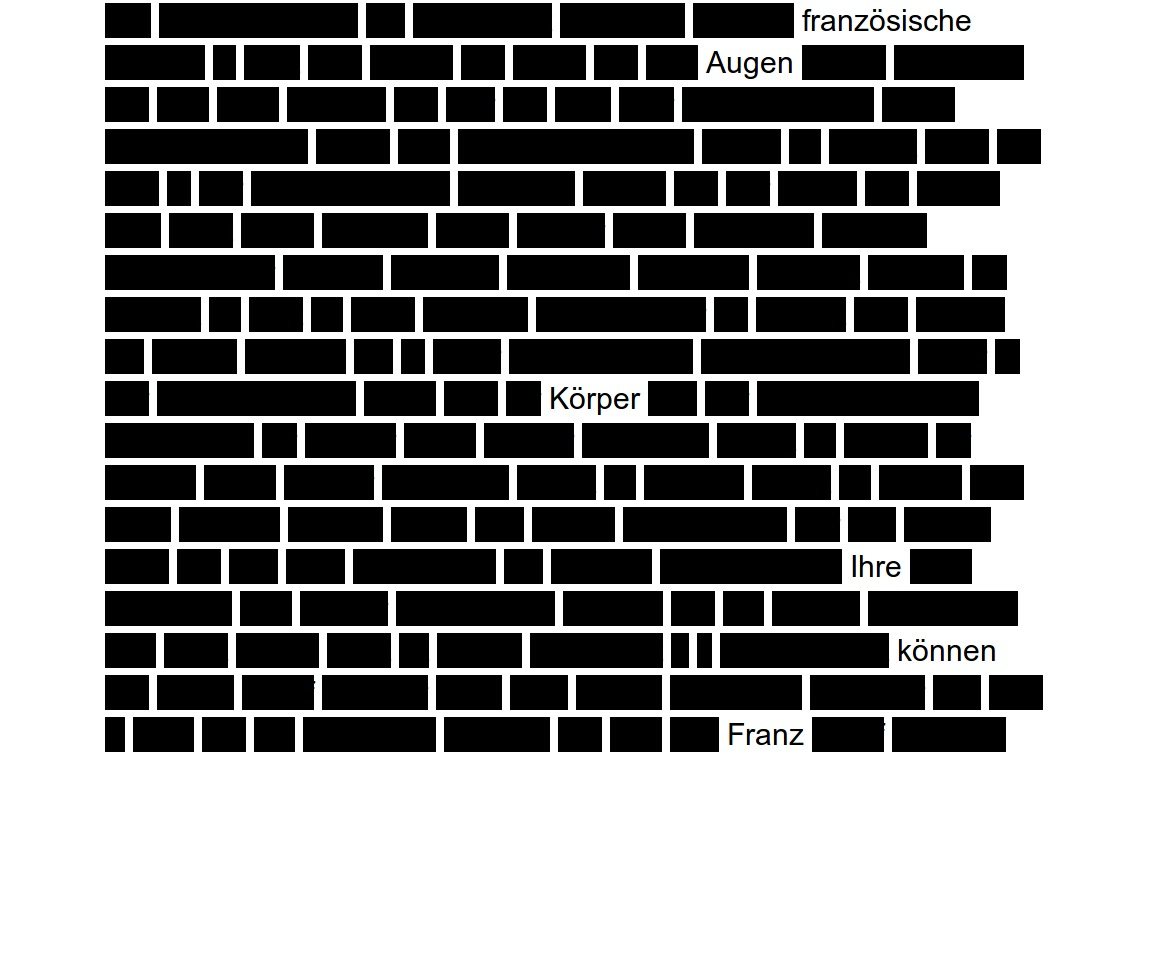
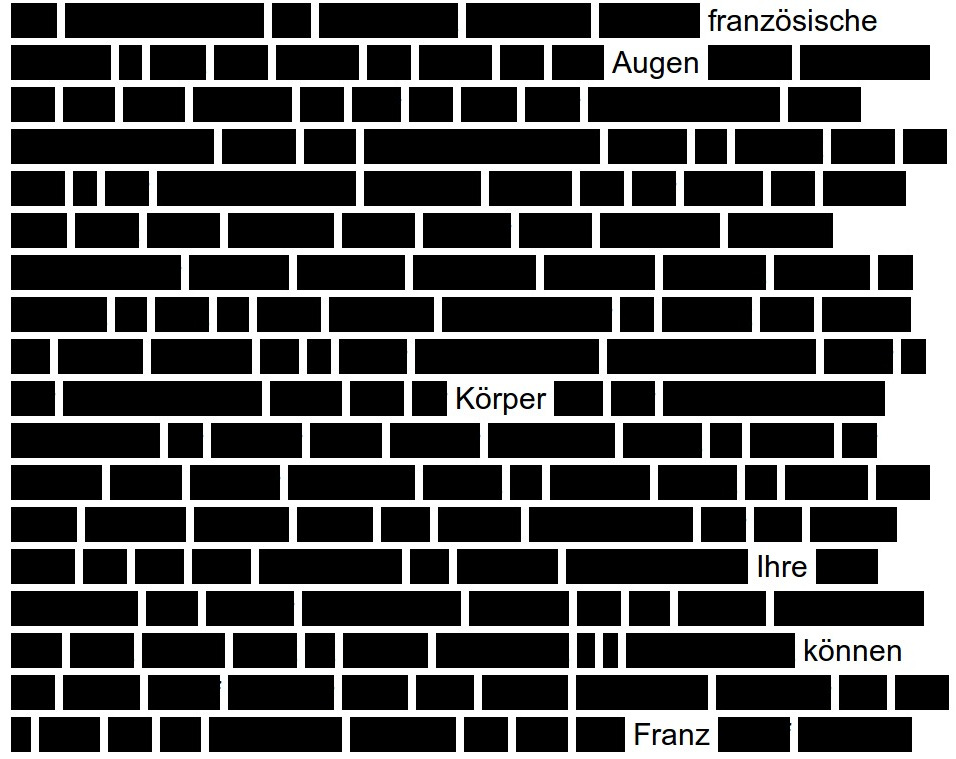
new article

diff --git a/content/posts/2014/02/blackout-poems-die-zweite.md b/content/posts/2014/02/blackout-poems-die-zweite.md
@@ -1,0 +1,11 @@
+Title: Blackout Poems, die Zweite 
+Slug: blackout-poems-die-zweite
+Date: 2014-02-02 12:25
+Tags: art, bild, random
+
+
+![Post von Wagner]({filename}/images/blackout-gold-deutschland.jpg)
+
+Das Projekt macht seine Fortschritte. Ich habe den [Code](https://github.com/xsteadfastx/blackout_poems) soweit angepasst, dass er nur einmal pro Tag schaut ob es neue "Post von Wagner" gibt. Sonst holt er sich den Text aus einem pickle-file. Eine elegantere Methode fällt mir gerade nicht ein. Was ich noch beschlossen habe: Die nicht geschwärzten Worte werden nicht nur mit einem schwarzen Background versehen, alle Buchstaben werden jetzt auch durch "X"e ersetzt. Das ganze ist natürtlich auch ein kleines Selbstschutz. Schade eigentlich. 
+
+Ich habe mal eine kleine Testinstallation unter [http://blackoutpoems.verblonshen.org](http://blackoutpoems.verblonshen.org) gemacht. Ich muss nochmal schauen wieso er ein paar Worte "zusammen klebt". Vielleicht nochmal regex überprüfen.  
